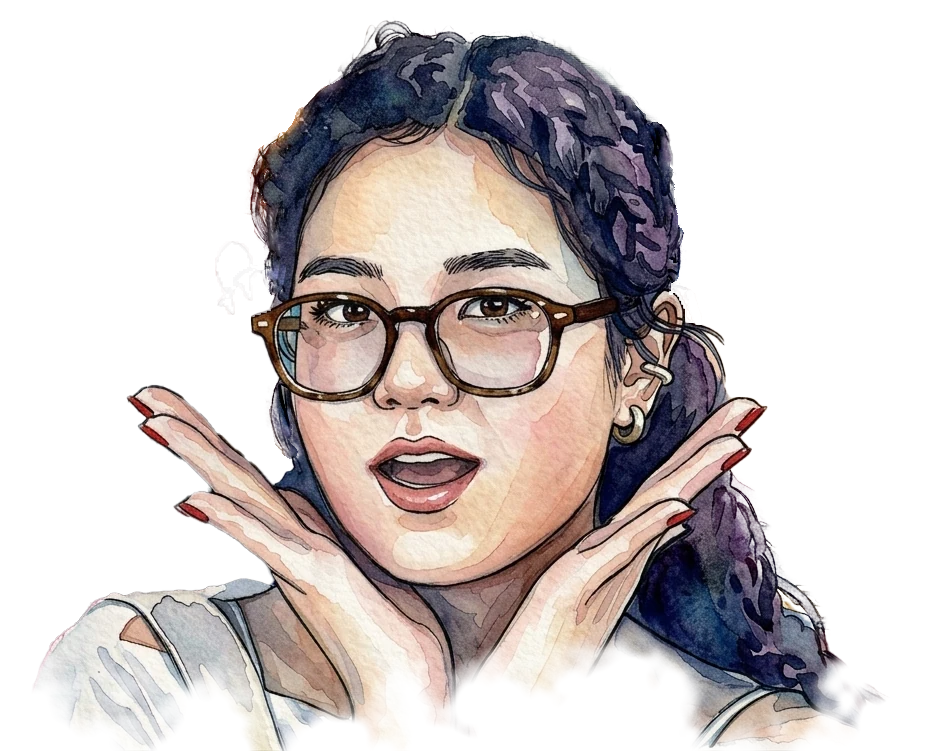
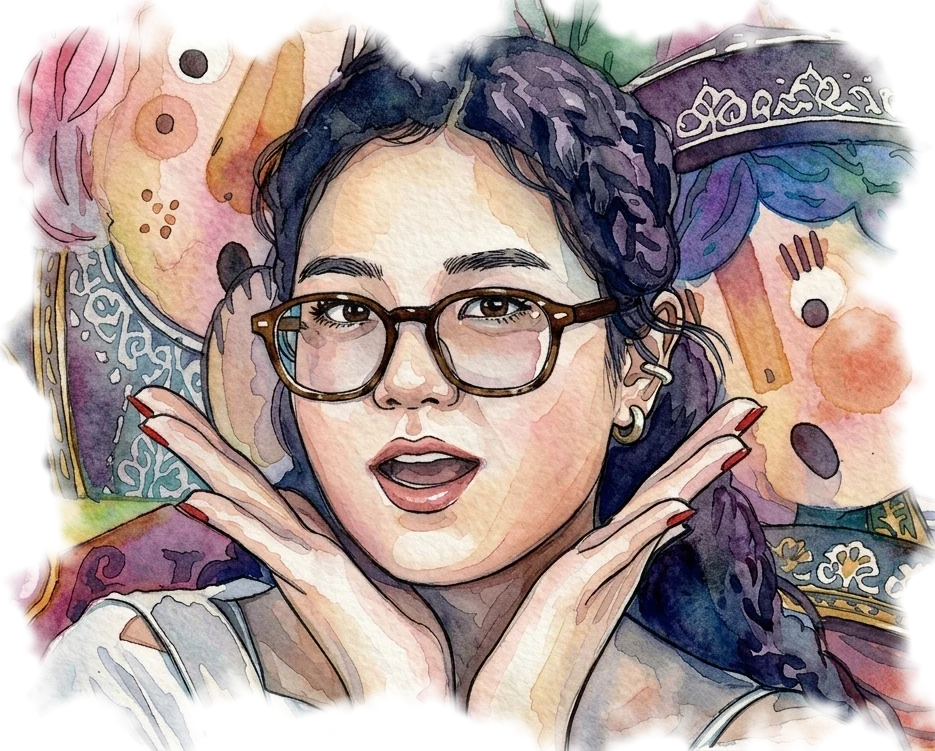
birthday: акварель проявляет портрет с фоном, рваные края со всех сторон

diff --git a/index.html b/index.html
@@ -109,7 +109,7 @@
               </g>
             </mask>
           </defs>
-          <image class="bd-portrait__img" href="img/photo-anime/face-color.webp" x="0" y="0" width="935" height="751"
+          <image class="bd-portrait__img" href="img/photo-anime/face-color.webp?v=2" x="0" y="0" width="935" height="751"
                  preserveAspectRatio="xMidYMid meet" mask="url(#face-mask)"/>
         </svg>
         <div class="bd-portrait__lines" data-svg="img/photo-anime/face-draw.svg"></div>
